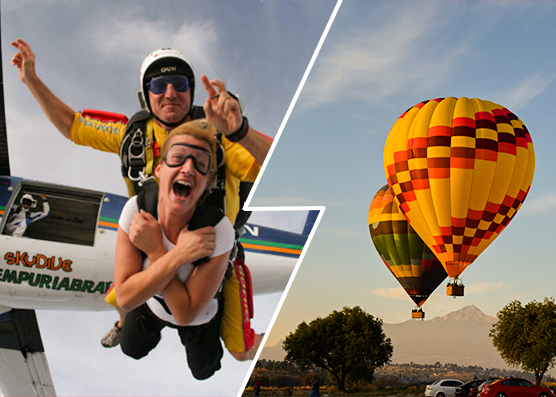
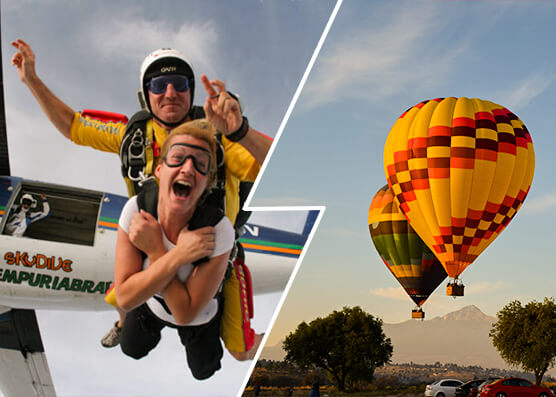
Add compressed images

diff --git a/index.html b/index.html
@@ -222,7 +222,7 @@
 
 <footer class="width100" id="contacto">
 	<div class="form width90 flex">
-		<form action="">
+		<form action="" method="post">
 	                <div class="flex">
 	                	<div class="form-data">
 	                		    <h2 class="width100">Contáctanos</h2>

diff --git a/css/style.css b/css/style.css
@@ -332,7 +332,7 @@ div.form-message{
 }
 div.form-data h2{
 	color: #fff;
-	font-size: 60px;
+	font-size: 50px;
 	letter-spacing: 1px;
 	margin: 50px 0;
 }
